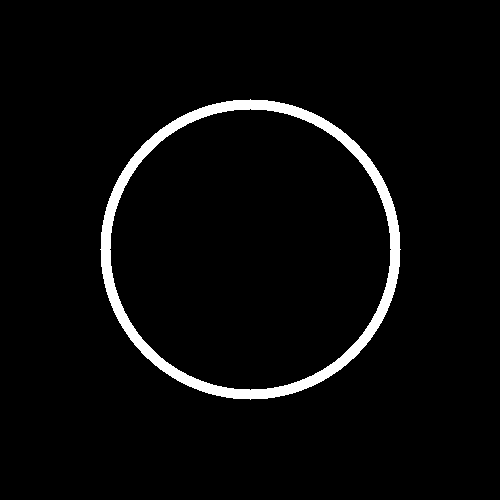
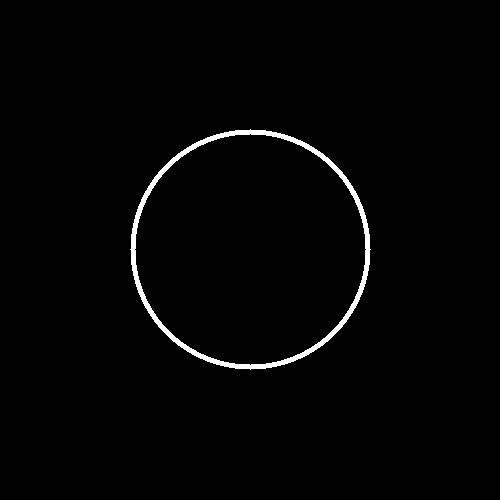
finished rosace

diff --git a/src/main.cpp b/src/main.cpp
@@ -147,10 +147,6 @@ void disk(sil::Image &image, float centerX, float centerY) // Mettre les coordon
             {
                 image.pixel(x, y) = {1.f, 1.f, 1.f};
             }
-            else
-            {
-                image.pixel(x, y) = {0.f, 0.f, 0.f};
-            }
         }
     }
 }
@@ -158,8 +154,8 @@ void disk(sil::Image &image, float centerX, float centerY) // Mettre les coordon
 void circle(sil::Image &image, float centerX, float centerY)
 {
     // Rayon
-    int r = 150;
-    int thickness = 10;
+    int r = 120;
+    int thickness = 5;
 
     for (int x = 0; x < image.width(); ++x)
     {
@@ -173,17 +169,20 @@ void circle(sil::Image &image, float centerX, float centerY)
             {
                 image.pixel(x, y) = {1.f, 1.f, 1.f};
             }
-            else
-            {
-                image.pixel(x, y) = {0.f, 0.f, 0.f};
-            }
         }
     }
 }
 
 void rosace(sil::Image &image)
 {
-    
+    circle(image, 250.f, 250.f); // Cercle central
+
+    int r = 120; // Rayon du cercle central
+
+    for (float teta{0}; teta <= 2*M_PI; teta += M_PI/3) // Les 6 cercles
+    {
+        circle(image, 250.f + r * cos(teta), 250.f + r * sin(teta)); // Passage cartésiennes --> polaires
+    }
 }
 
 int main()

diff --git a/README.md b/README.md
@@ -42,3 +42,6 @@ Workshop de ProgAlgo, IMAC2028 S1
 ![alt text](./output/disque.png)
 ![alt text](./output/cercle.png)
 ![alt text](./output/animation/disque_animation.gif)
+![alt text](./output/rosace.png)
+
+## Exercice 13 :
